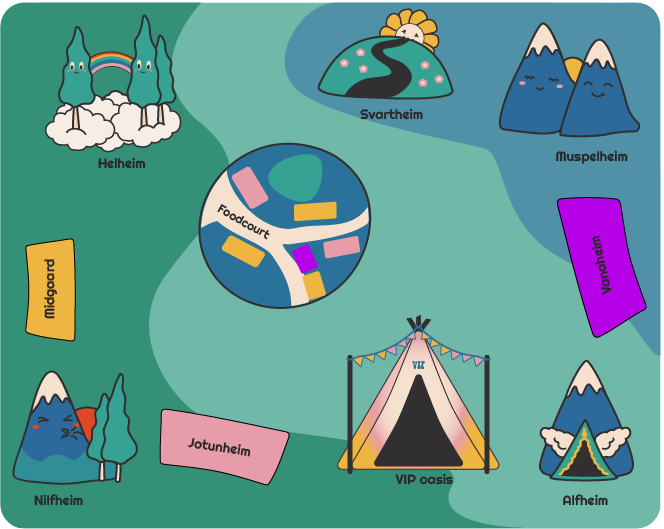
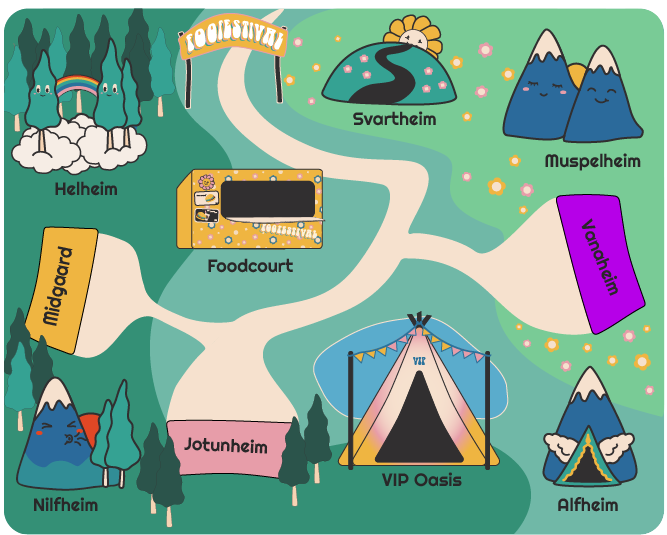
map

diff --git a/checkout.css b/checkout.css
@@ -98,37 +98,39 @@ td {
   align-items: center;
 }
 
-#map_overview_info{
+#map_overview_info {
   display: flex;
-  justify-content: space-around;
+  justify-content: flex-start;
+  flex-direction: column;
+  align-items: center;
 }
 
-.view_map{
-  background-image: url(img/mapicon.svg);
-  background-size: contain;
-  background-position: center;
-  background-repeat: no-repeat;
+.view_map {
   background-color: transparent;
-  width: 6rem;
+
   border-radius: 0;
-box-shadow: none;
-transition: 0.2s;
+  box-shadow: none;
+  transition: 0.2s;
+ 
+  width: 95%;
+
+  margin-left: 0;
+  transition: 0.5s;
+  cursor: pointer;
 }
 
-.view_map:hover{
- transition: 1s;;
+.view_map:hover {
+  transition: 1s;
   background-color: transparent;
-  transform: scale(1.2) rotate(2deg);
-
+  transform: scale(1.05) rotate(3deg);
 }
-#spot_reservation_info:first-child{
+#spot_reservation_info:first-child {
   font-weight: 700;
   display: flex;
   gap: 5px;
   align-items: center;
   justify-content: space-evenly;
 }
-
 
 .c_a,
 .c_b,
@@ -194,7 +196,6 @@ transition: 0.2s;
   background-color: #df523c;
 }
 
-
 .c_c {
   background-image: url(img/helheim.png);
 }
@@ -238,9 +239,7 @@ transition: 0.2s;
   background-color: transparent;
 }
 
-
-
-#areainfo_popup{
+#areainfo_popup {
   margin: 0 auto;
   position: fixed;
   height: 100%;
@@ -252,21 +251,21 @@ transition: 0.2s;
   display: none;
 }
 
-.areainfo_popup_background{
+.areainfo_popup_background {
   text-align: center;
-
-  gap: 2rem;
   position: fixed;
-  padding: 2rem;
+  padding: 1rem;
   margin: 0 auto;
   border-radius: 6px;
   background-color: var(--secondary_bg_3);
   box-shadow: var(--shadow_out);
   top: 15%;
-  left: 20%;
-  right: 20%;
+  width: 100%;
  
+}
 
+.areainfo_popup_background img {
+  max-width: 100%;
 }
 
 .costumer_grid,
@@ -300,8 +299,6 @@ tr.total_border td {
   left: 0;
   display: none;
 }
-
-
 
 .order_popup_background {
   position: fixed;
@@ -378,6 +375,12 @@ tr.total_border td {
 /* Small devices (landscape phones, 576px and up) */
 
 @media screen and (min-width: 576px) {
+
+  .view_map {
+    width: 85%;
+    justify-items: flex-end;
+    margin-left: 0;
+}
   .order_popup_background {
     width: 500px;
     top: 50%;
@@ -432,6 +435,9 @@ tr.total_border td {
 /* Medium devices (tablets, 768px and up) */
 
 @media screen and (min-width: 768px) {
+
+
+
   #costumer_section form,
   #payment_section form {
     margin: 5rem auto;
@@ -497,10 +503,33 @@ tr.total_border td {
 /* Large devices (desktops, 992px and up) */
 
 @media screen and (min-width: 992px) {
+  .view_map {
+
+    width: 20rem;
+  
+    justify-items: flex-end;
+    margin-left: 0;
+  }
+    #map_overview_info {
+     justify-content: space-around; 
+    flex-direction: row;
+
+
+ }
+  .areainfo_popup_background {
+    top: 15%;
+    left: 10%;
+    right: 10%;
+    width: 40rem;
+}
+
   body {
     background-size: 100%;
     background-position: 55% 75%;
   }
+
+  
+  
   /*camping styling*/
   .camping_grid {
     display: flex;
@@ -611,4 +640,24 @@ tr.total_border td {
     width: 80%;
     padding: 1rem;
   }
+}
+
+@media screen and (min-width:  1200px) {
+   
+.view_map {
+
+  width: 18rem;
+}
+  #map_overview_info {
+    justify-items: flex-start;
+    flex-direction: row;
+  
+    margin-top: -5rem;
+ }
+  .areainfo_popup_background {
+    top: 15%;
+    left: 20%;
+    right: 20%;
+    width: 45rem;
+}
 }

diff --git a/checkout.html b/checkout.html
@@ -158,7 +158,7 @@
 
                     <p> Not sure which camp to choose? <br>
                         Click here to see a map of the Foofestival Camp placement</p>
-                    <button type="button" class="view_map">MAP</button>
+                    <img src="img/map.png" class="view_map" alt="">
                 </div>
 
 
